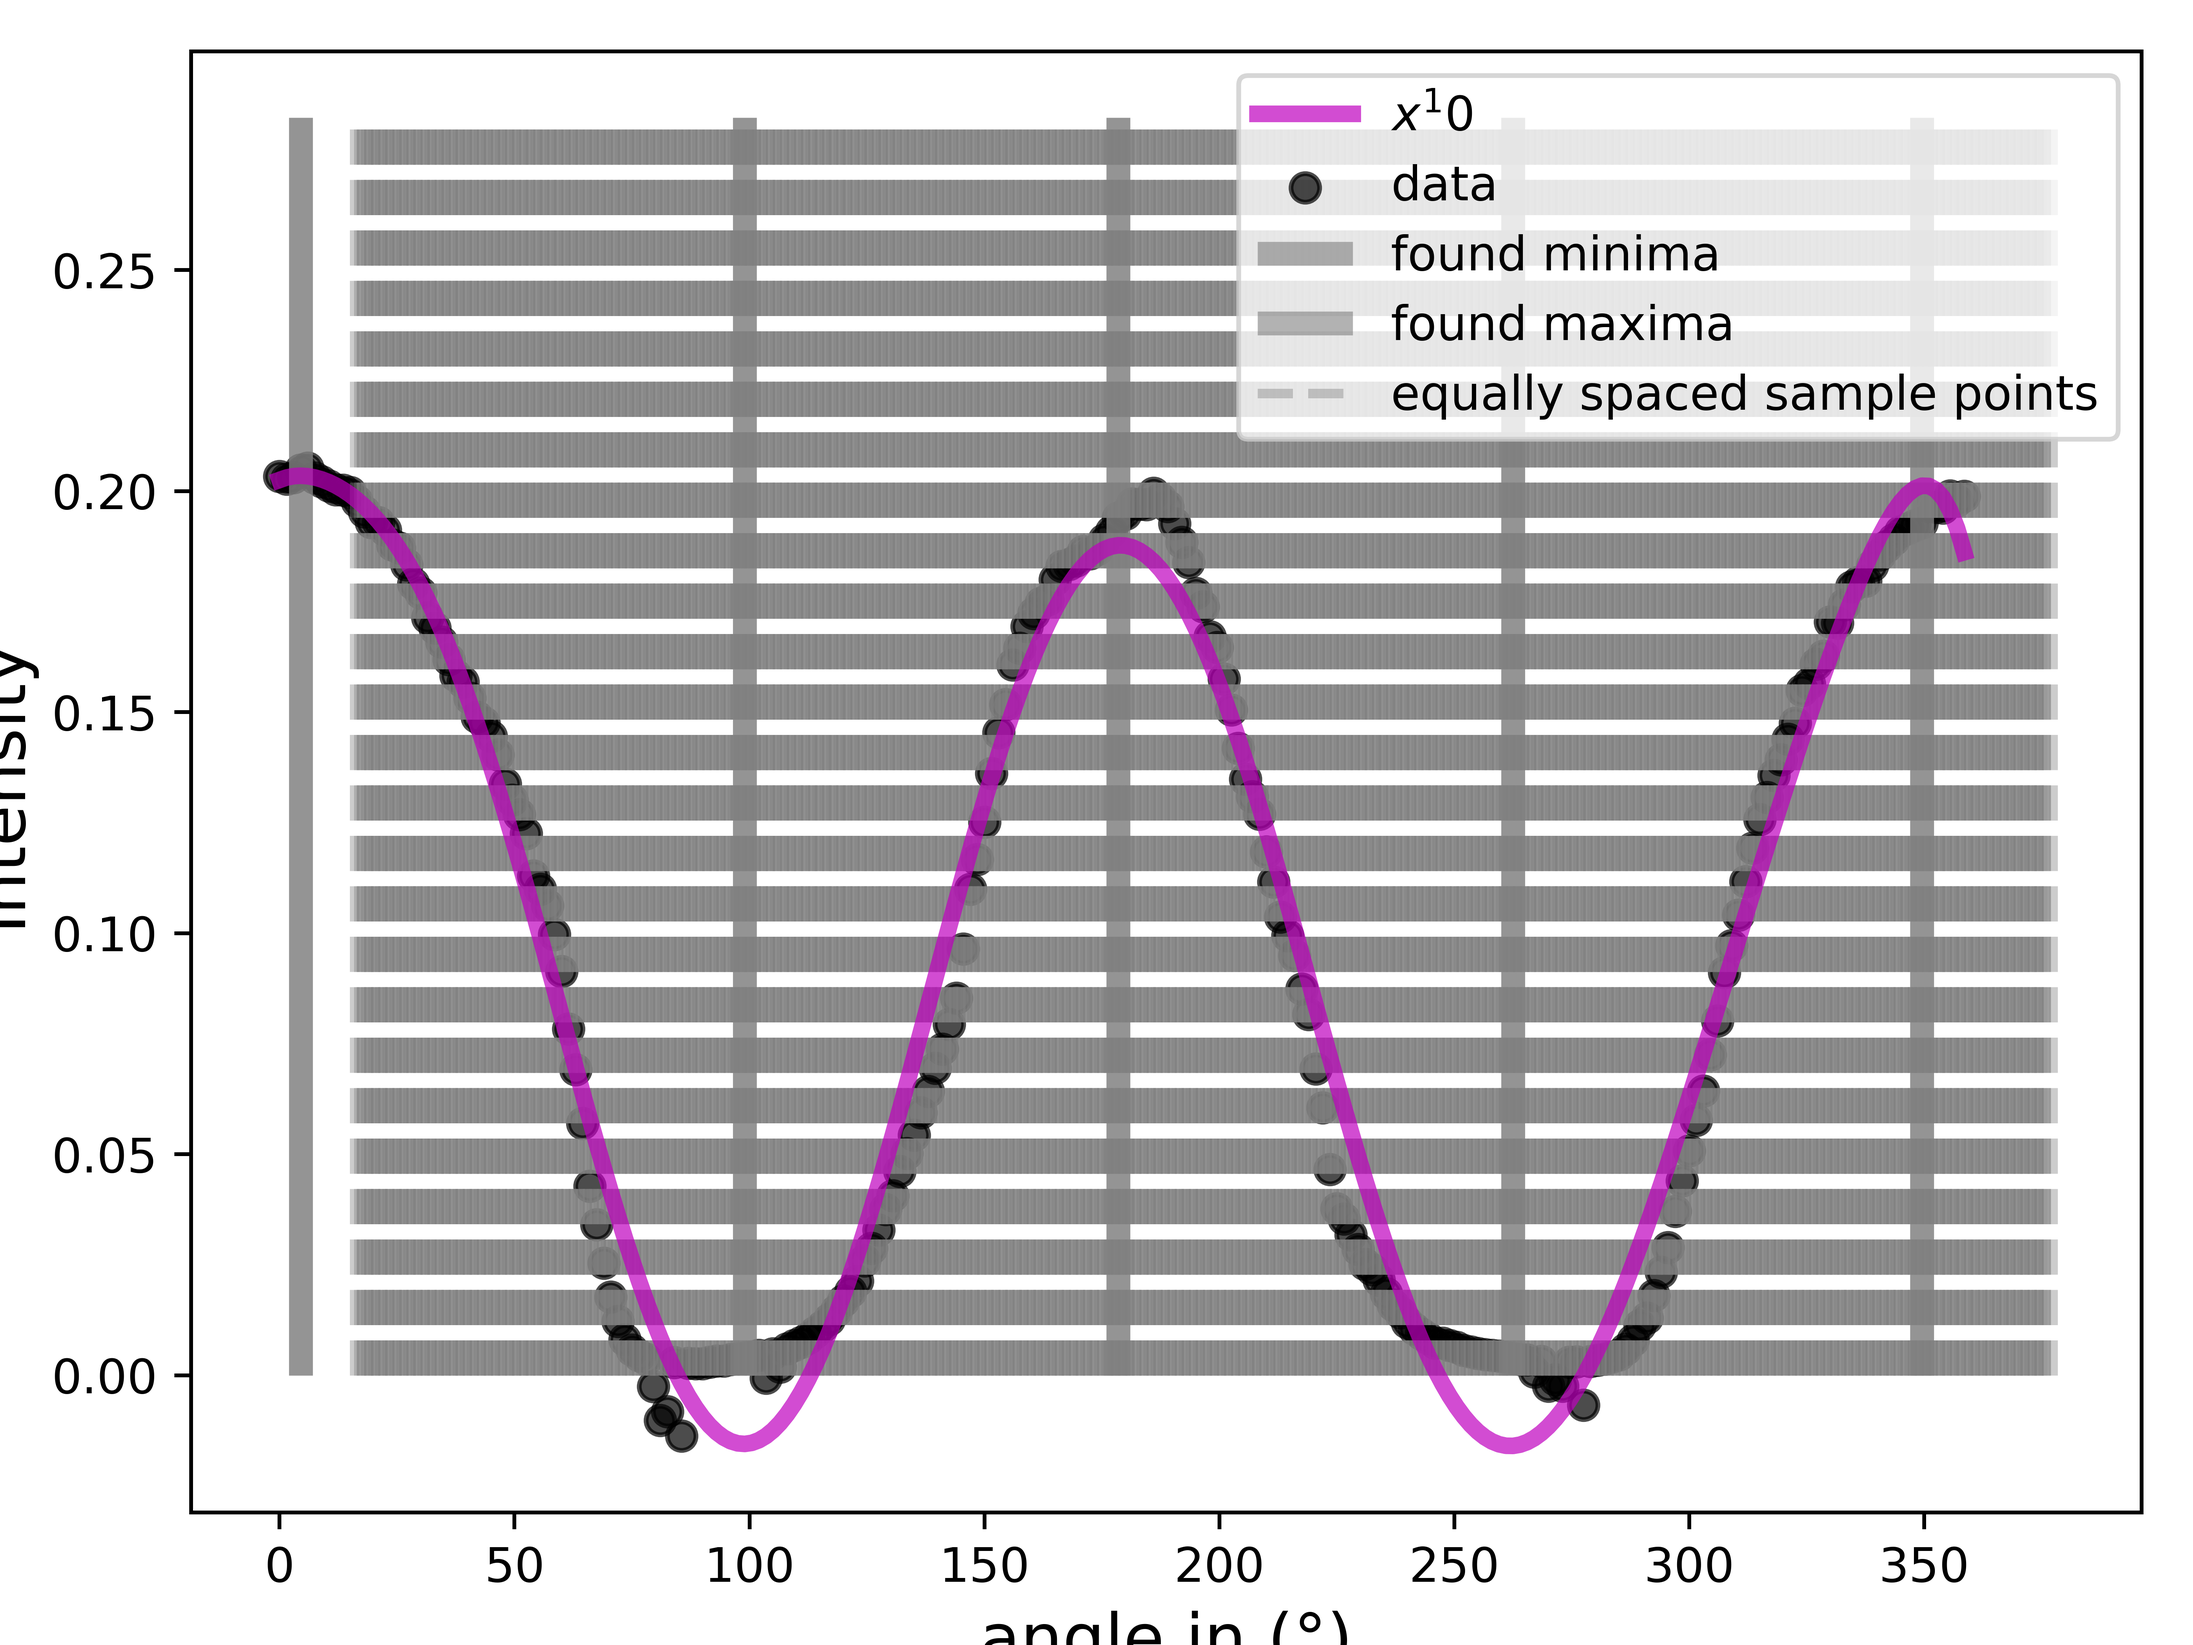
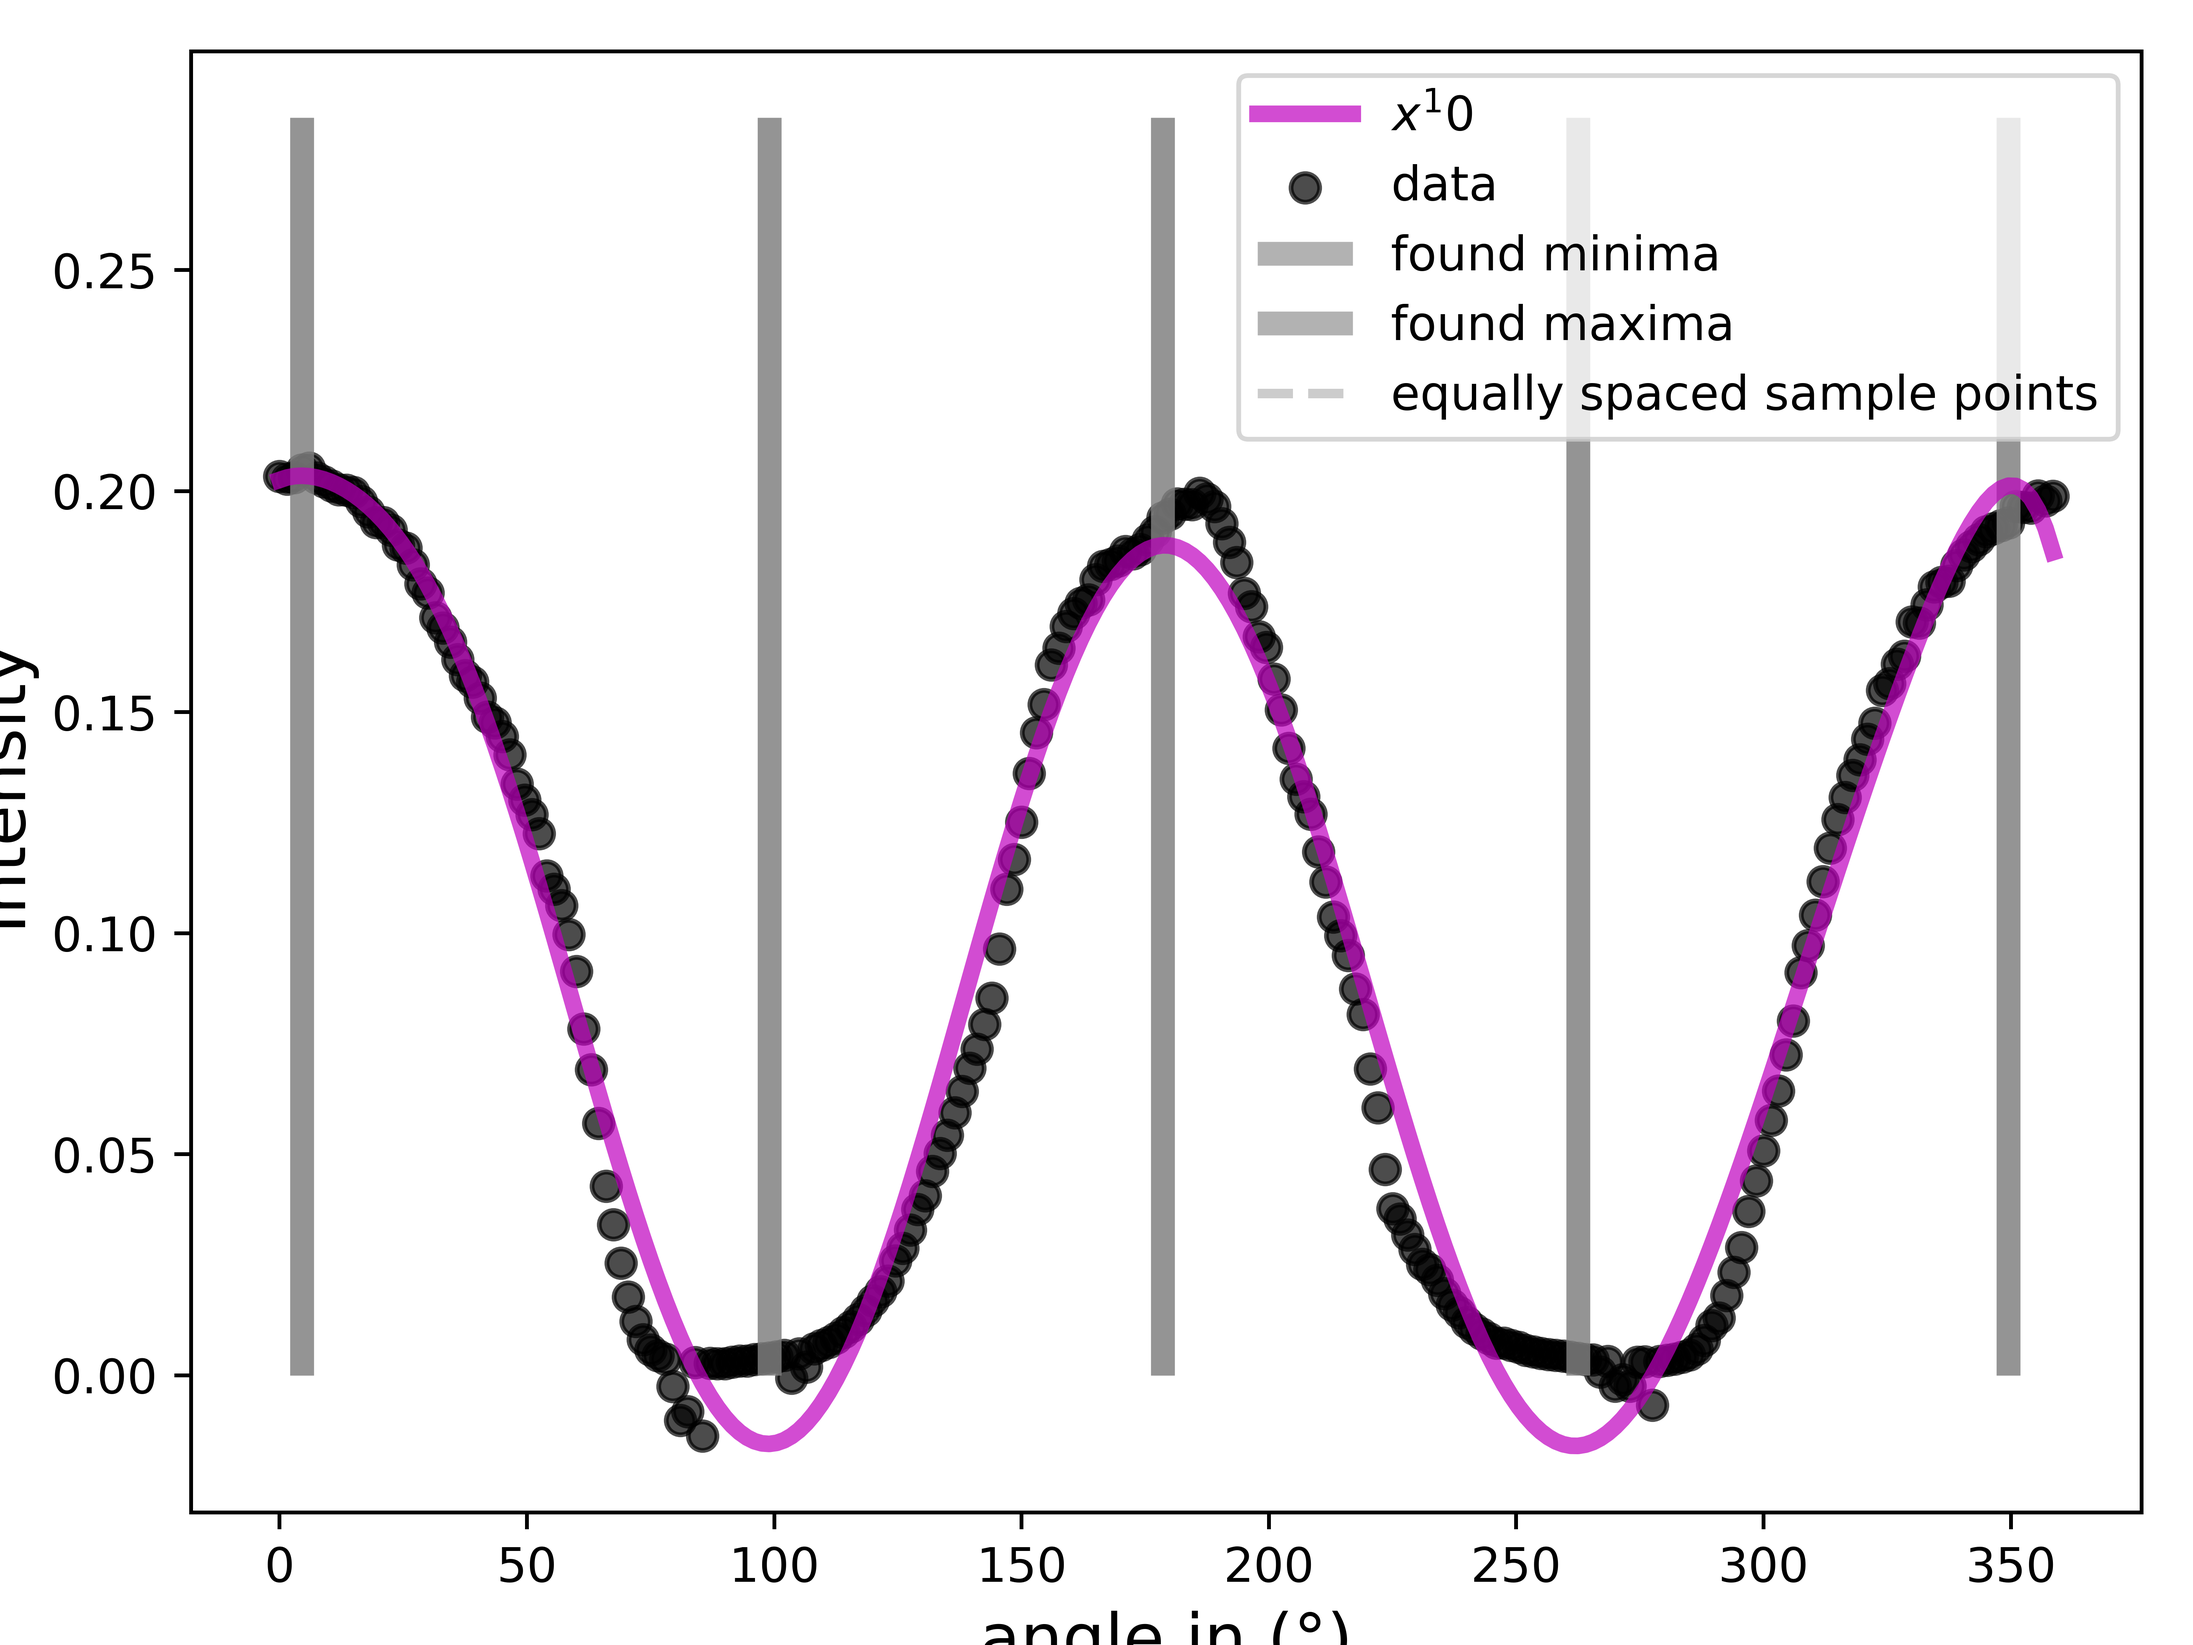
get_data and plotting ist working. + highlighting peaks! TODO: devide the space between major peaks equaly.

diff --git a/fit.py b/fit.py
@@ -79,9 +79,11 @@ class Fit:
         # gehe durch beide Listen und finde zum ersten Extrema x0 den darauffolgenden x1 (unabhaengig von min oder max)
         # ziehe diese Extrema von einander ab und teile den Abstand in aequidistante Abstaende
         intersept_minor = []
+        #n = np.arange(arr_inter_major[i + 1], arr_inter_major[i], n)
         for i in range(len(arr_inter_major)-1):
             indx = abs(arr_inter_major[i+1] - arr_inter_major[i])/n
-            intersept_minor.append(x[0][i]+ indx)
+            abc = np.arange(arr_inter_major[i+1], arr_inter_major[i]+1, n)
+            intersept_minor.append(n*(arr_inter_major[i] + abc))
         arr_inter_minor = np.array(intersept_minor)
 
         #for i in arr_maxima, arr_minima:
